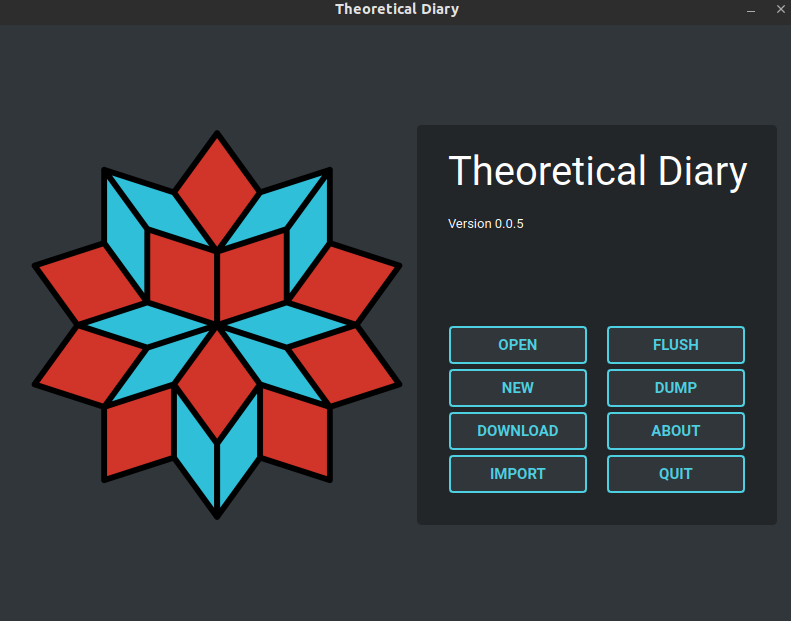
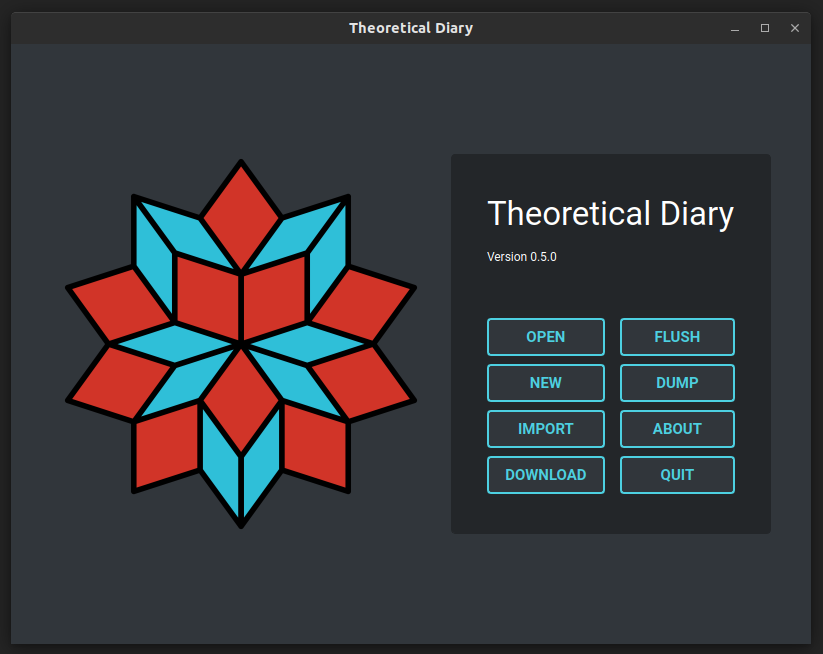
updated readme and upped version

diff --git a/README.md b/README.md
@@ -10,11 +10,27 @@ A digital diary with (planned) Google Drive backups. This app is a work in progr
 
 ![](images/readme/diary_editor.png)
 
+![](images/readme/entry_list.png)
+
+![](images/readme/diary_pixels.png)
+
 ## Download
 
 ### Windows
 
 For Windows, the prebuilt binaries are available in `theoreticaldiary-x86_64` (check the result of the latest successful Github actions for [`windows.yml`](https://github.com/someretical/theoretical-diary/actions/workflows/windows.yml)). The only platform it is guaranteed to work on is Windows 10 x64.
+
+To fix scaling issues on Windows, follow these instructions:
+
+1. Download and extract the ZIP file.
+2. Right click the executable file and select `Properties`.
+3. Click on the `compatability` tab and then click on `Change high DPI settings`.
+4. Then tick the override checkbox and make sure the dropdown option is set to `Application`.
+5. Click `Ok` and then click `Apply` to save the changes.
+
+![](images/readme/windows_compat_1.png)
+
+![](images/readme/windows_compat_2.png)
 
 ### Linux
 
